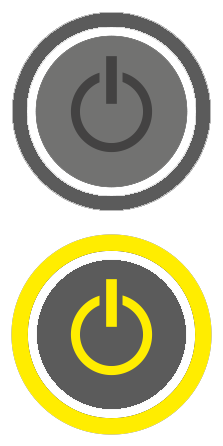
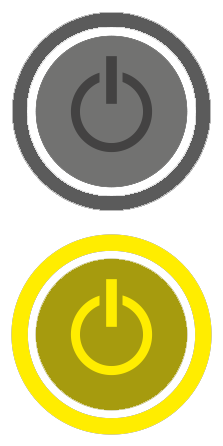
[ALL] Updated on/off button design [PC]  Added a script to generate a header with current git revision and date [ALL] Added a text string on the plugin GUI with current revision [PC]  Embedded a revision script into VS projects' pre-buils events

Changed region(s): [[0.1076, 0.5538, 0.8879, 0.9327]]

diff --git a/Transcriber.cpp b/Transcriber.cpp
@@ -3,6 +3,7 @@
 #include "IControl.h"
 #include "resource.h"
 #include "lib_filter/filter.h"
+#include "PLUG_Version.h"
 
 Transcriber::Transcriber(IPlugInstanceInfo instanceInfo)
   :	IPLUG_CTOR(kNumParams, kNumPrograms, instanceInfo), mCutOffFrequency(1.)
@@ -25,7 +26,17 @@ Transcriber::Transcriber(IPlugInstanceInfo instanceInfo)
   pGraphics->AttachControl(new IKnobMultiControl(this, kGainX, kGainY, kGain, &tGuiBmp));
   tGuiBmp = pGraphics->LoadIBitmap(SWITCH_ID, SWITCH_FN, kSwitchFrames);
   pGraphics->AttachControl(new ISwitchControl(this, kSwitchX, kSwitchY, kSwitchFrames, &tGuiBmp));
+
+  //Attach ITextControl
+  IText tTextVersion = IText(14);
+  char sDisplayedVersion[32];
+  sprintf(sDisplayedVersion, "Ver. %s (%s)", &sPlugVersionGitHead, &sPlugVersionDate);
+  tTextVersion.mColor = IColor(255, kTextVersion_ColorMono, kTextVersion_ColorMono, kTextVersion_ColorMono);
+  tTextVersion.mSize = 10;
+  pGraphics->AttachControl(new ITextControl(this, IRECT(kTextVersion_X, kTextVersion_Y, (kTextVersion_X + kTextVersion_W), (kTextVersion_Y + kTextVersion_H)), &tTextVersion, (const char*)&sDisplayedVersion));
   AttachGraphics(pGraphics);
+
+
 
 
   //MakePreset("preset 1", ... );

diff --git a/Transcriber.h b/Transcriber.h
@@ -30,6 +30,12 @@ enum ELayout
 
   kSwitchX = 16,
   kSwitchY = 150,
+
+  kTextVersion_X = 8,
+  kTextVersion_Y = 418,
+  kTextVersion_W = 100,
+  kTextVersion_H = 20,
+  kTextVersion_ColorMono = 70,
 };
 
 class Transcriber : public IPlug
